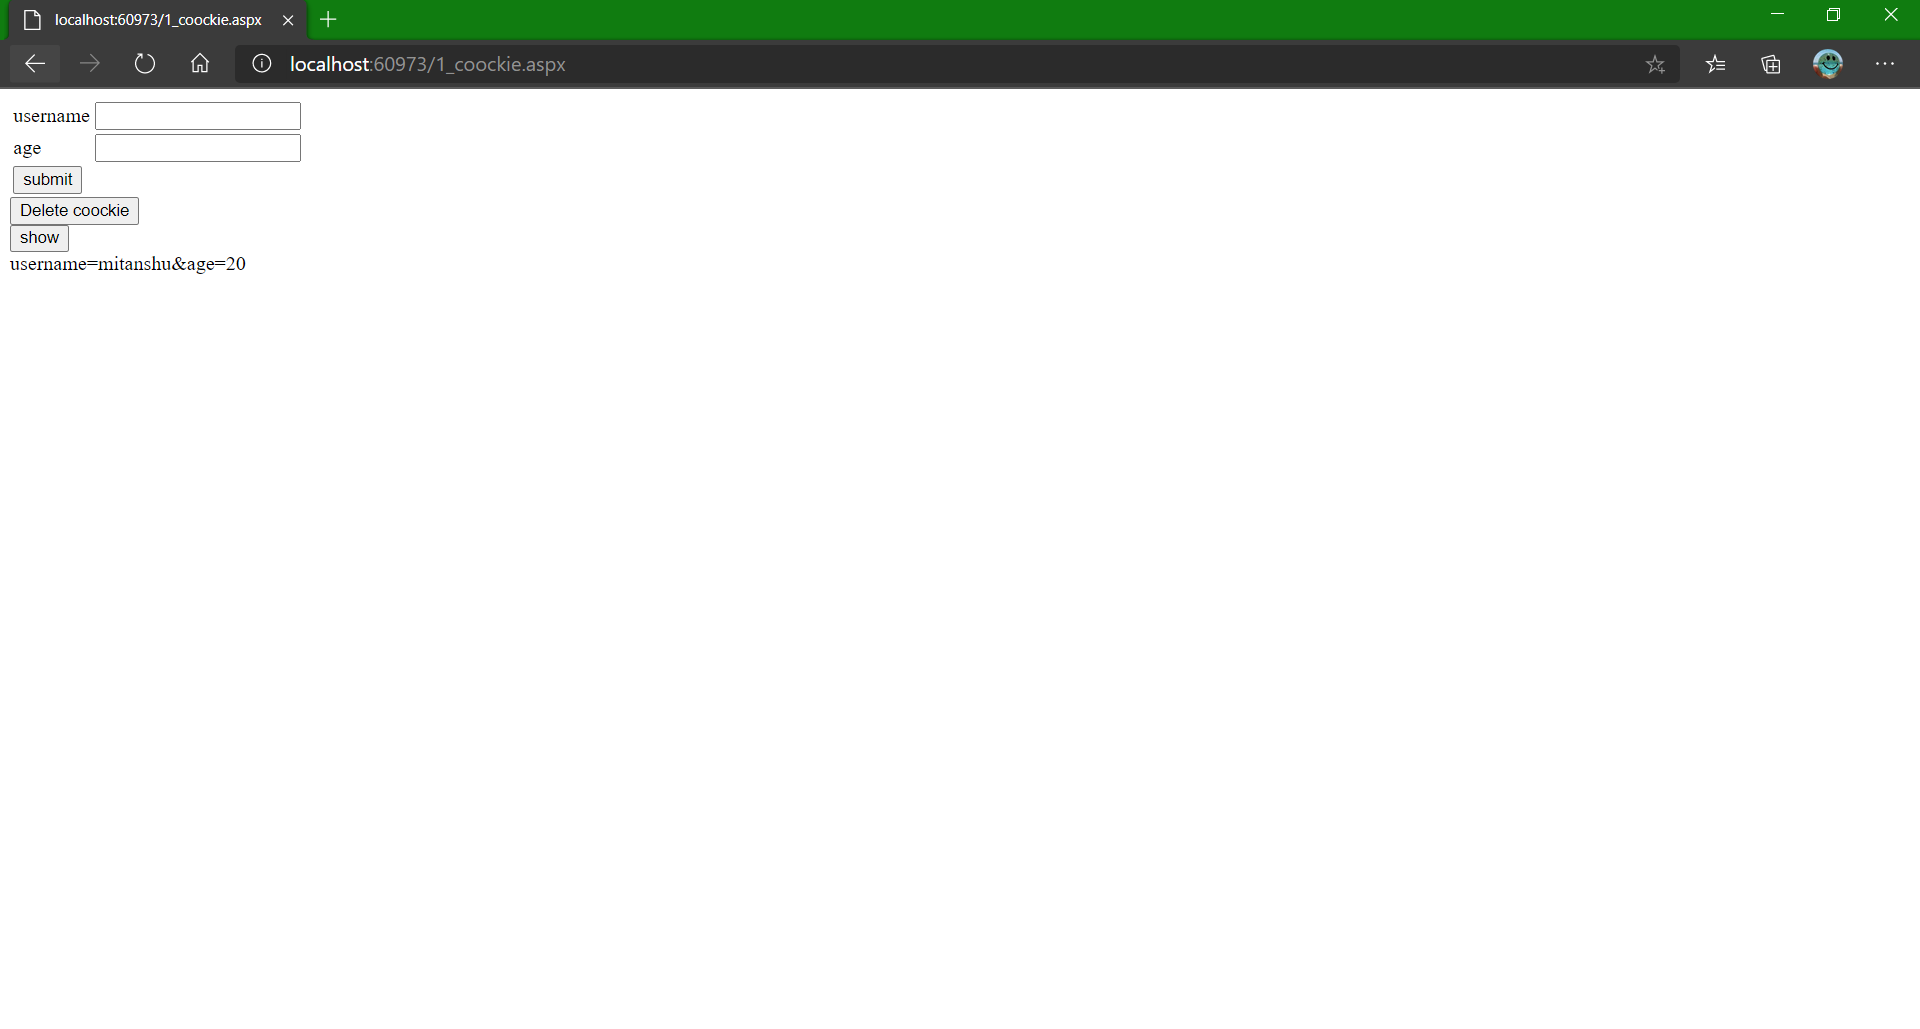
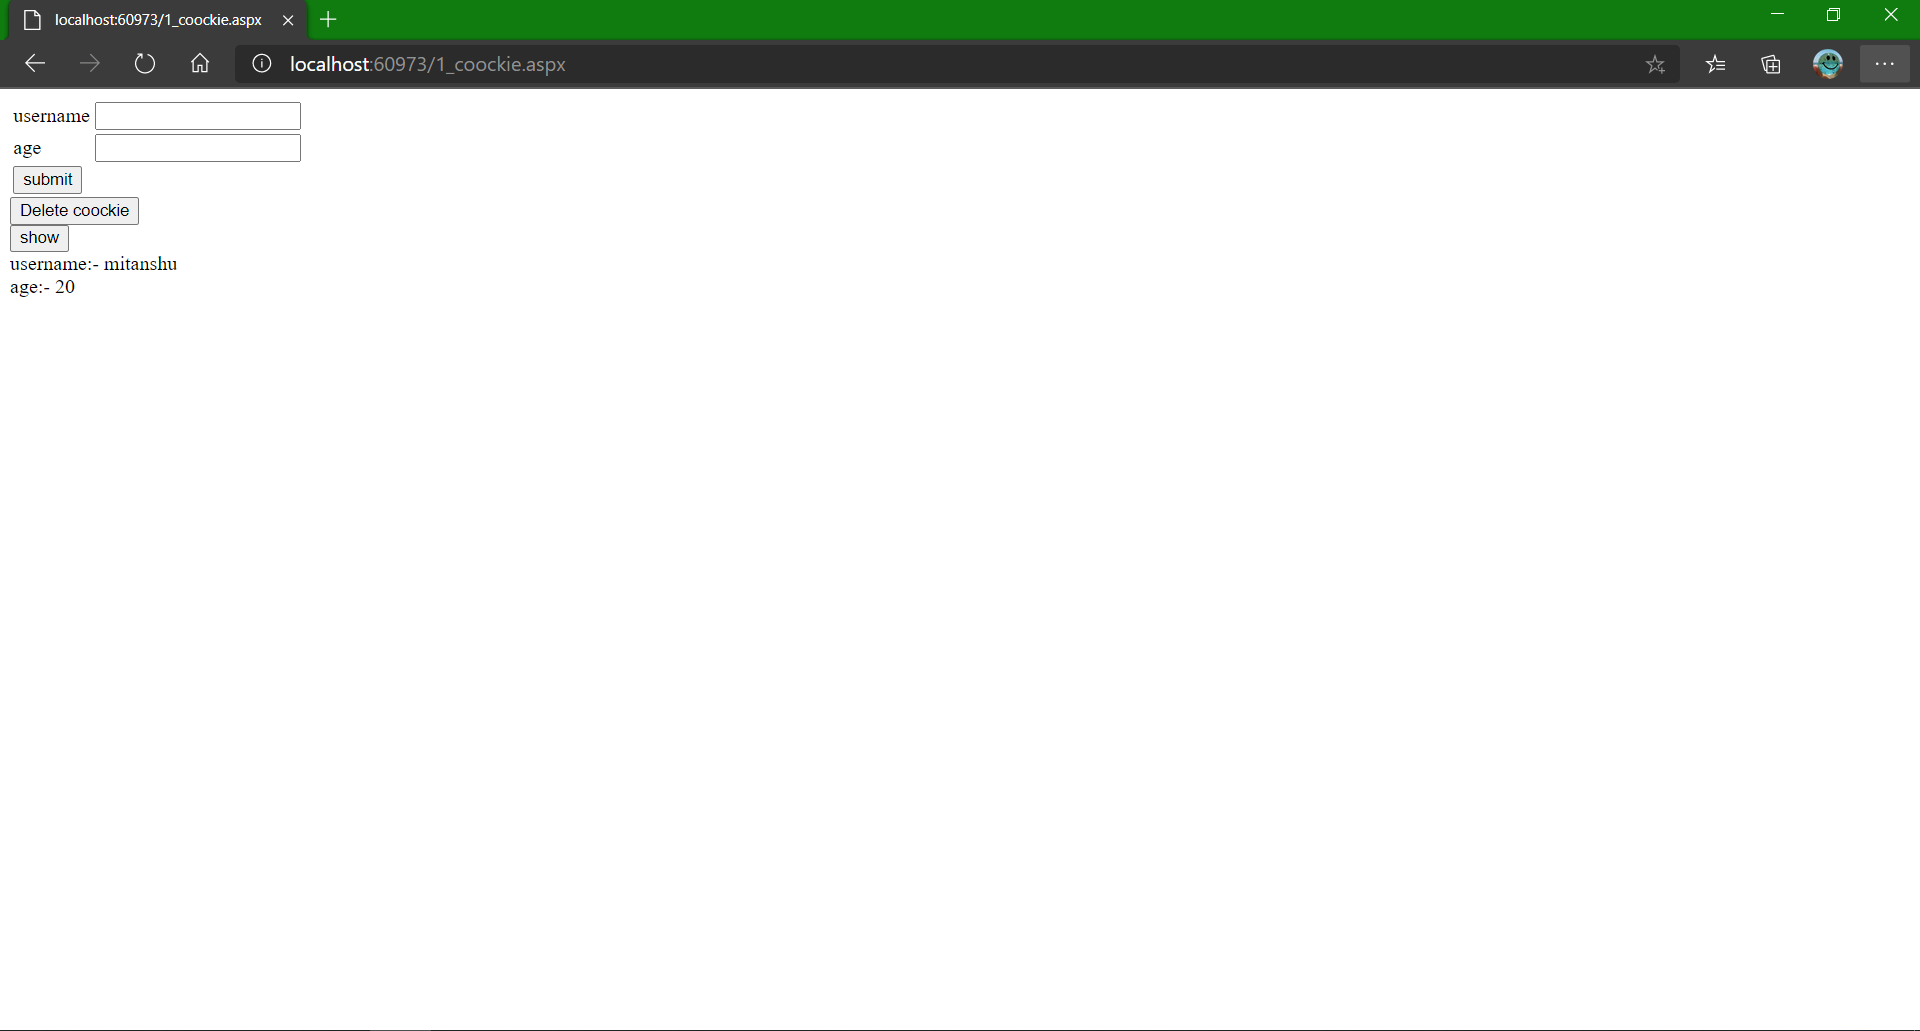
Add files via upload

Changed region(s): [[0.0, 0.9951, 1.0, 1.0], [0.0, 0.1555, 0.125, 0.2799], [0.0625, 0.1244, 0.1562, 0.1555]]

diff --git a/LAB_5/1_coockie.aspx.cs b/LAB_5/1_coockie.aspx.cs
@@ -44,7 +44,11 @@ namespace WebApplication3
             }
             else
             {
-                showcockie.Text = Request.Cookies["user_info"].Value;
+                //showcockie.Text = Request.Cookies["user_info"].Value;
+                HttpCookie reqcookie = Request.Cookies["user_info"];
+                showcockie.Text = "username:- " + reqcookie["username"].ToString() + "<br />";
+                showcockie.Text += "age:- " + reqcookie["age"].ToString();
+
             }
         }
     }
